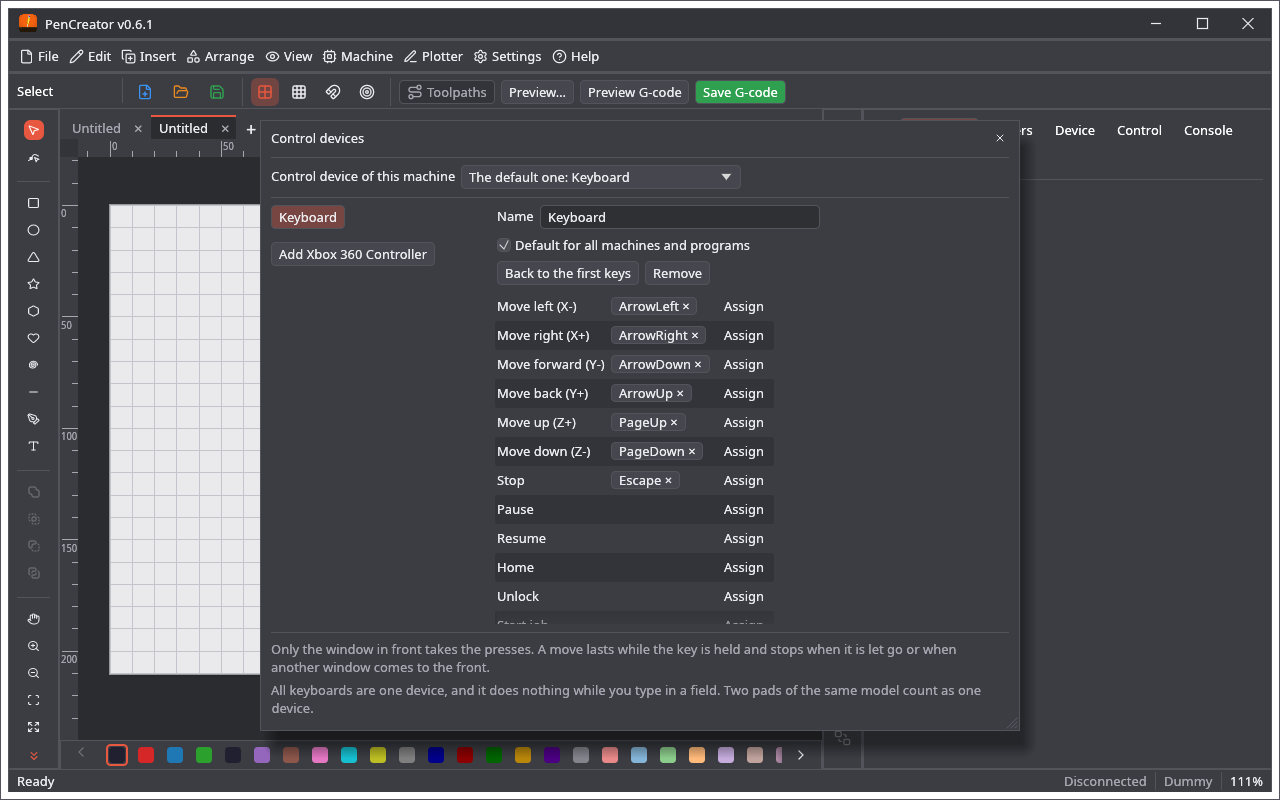
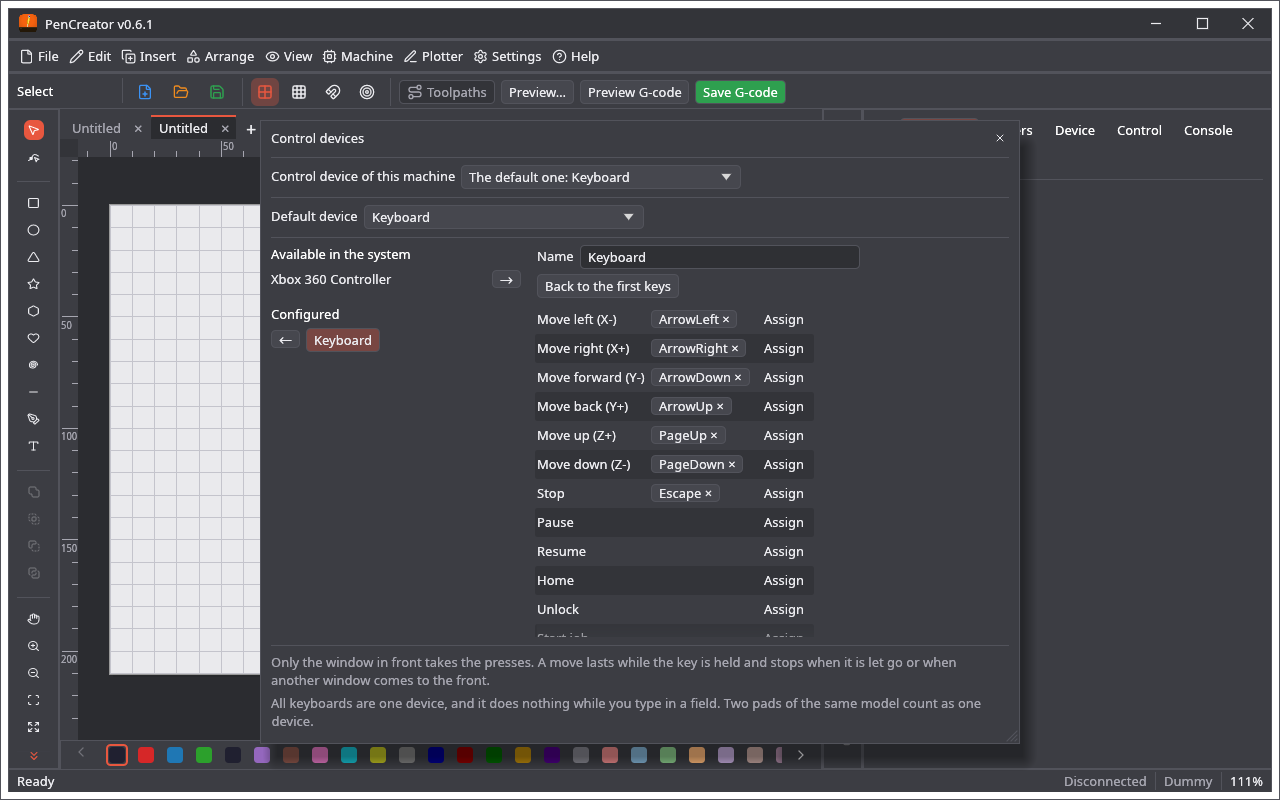
Shared camera page, cameras of the computer in the builds, copyable messages; pin base v1.69.5

Changed region(s): [[0.1875, 0.25, 0.8125, 0.9688], [0.1875, 0.25, 0.3438, 0.4375]]

diff --git a/crates/pencreator/src/device_ui.rs b/crates/pencreator/src/device_ui.rs
@@ -2,7 +2,6 @@
 //! editor and the camera view of the device.
 use crate::device::{self, Device, Lift, Origin, DUMMY_NAME, MAX_DEVICES};
 use crate::App;
-use base_core::camimg::{CameraKind, CameraSource};
 use base_core::machine::{GrblVersion, LinkKind, Streaming};
 use base_core::units::Units;
 use base_ui::editor::EditorHost;
@@ -250,6 +249,10 @@ impl App {
 
     /// The window that adds or changes a device.
     pub(crate) fn device_window(&mut self, ctx: &egui::Context) {
+        if let Some(cam) = self.cam_test_wanted.take() {
+            self.cam_test = base_ui::camera_feed::CamTest::start(cam, ctx);
+        }
+        base_ui::camera_feed::CamTest::window(ctx, &mut self.cam_test);
         let Some(mut edit) = self.dev_edit.take() else { return };
         let mut open = true;
         let mut save = false;
@@ -484,7 +487,7 @@ impl App {
                             ui.end_row();
                         });
                     }
-                    Page::Camera => camera_page(ui, d),
+                    Page::Camera => base_ui::camera_feed::camera_page(ui, &mut d.cameras, &mut d.active_camera, &mut self.cam_test_wanted),
                     Page::Notes => {
                         ui.add(egui::TextEdit::multiline(&mut d.notes).desired_rows(10).desired_width(f32::INFINITY).hint_text(tr("Notes about this machine")));
                     }
@@ -707,70 +710,9 @@ impl App {
     }
 }
 
-fn camera_page(ui: &mut egui::Ui, d: &mut Device) {
-    let mut remove = None;
-    for (i, c) in d.cameras.iter_mut().enumerate() {
-        ui.group(|ui| {
-            ui.horizontal(|ui| {
-                ui.checkbox(&mut c.enabled, "").on_hover_text(tr("Switched on"));
-                ui.add(egui::TextEdit::singleline(&mut c.name).hint_text(tr("Camera name")).desired_width(200.0));
-                if base_ui::window::delete_icon(ui, &tr("Delete this camera")).clicked() {
-                    remove = Some(i);
-                }
-            });
-            ui.horizontal(|ui| {
-                let local = matches!(c.kind, CameraKind::Local(_));
-                let mut want_local = local;
-                ui.radio_value(&mut want_local, false, tr("Address"));
-                ui.radio_value(&mut want_local, true, tr("Camera of this computer"));
-                if want_local != local {
-                    c.kind = if want_local { CameraKind::Local(0) } else { CameraKind::Url(String::new()) };
-                }
-            });
-            match &mut c.kind {
-                CameraKind::Url(u) => {
-                    ui.add(egui::TextEdit::singleline(u).hint_text("http://raspberrypi.local:8080/stream.mjpg").desired_width(340.0));
-                    if !u.trim().is_empty() && !base_core::camimg::valid_url(u) {
-                        ui.label(RichText::new(tr("Not a camera address (http, https, rtsp, udp, rtp or rtmp).")).color(Color32::from_rgb(0xc0, 0x30, 0x30)));
-                    }
-                }
-                CameraKind::Local(n) => {
-                    ui.horizontal(|ui| {
-                        ui.label(tr("Camera number"));
-                        ui.add(egui::DragValue::new(n).range(0..=15));
-                    });
-                }
-            }
-            base_ui::camera_feed::stream_options_ui(ui, c);
-            ui.horizontal(|ui| {
-                ui.label(tr("Camera rotation"));
-                for q in 0..4u8 {
-                    ui.selectable_value(&mut c.rotation, q, format!("{}°", q as u32 * 90));
-                }
-            });
-        });
-    }
-    if let Some(i) = remove {
-        d.cameras.remove(i);
-        d.active_camera = d.active_camera.min(d.cameras.len().saturating_sub(1));
-    }
-    if d.cameras.len() < 8 && ui.button(tr("Add a camera")).clicked() {
-        d.cameras.push(CameraSource::url(&tr("Camera"), "", 0));
-    }
-    if d.cameras.len() > 1 {
-        ui.horizontal(|ui| {
-            ui.label(tr("Shown in the Camera tab"));
-            egui::ComboBox::from_id_salt("dev_active_cam").selected_text(d.cameras.get(d.active_camera).map(|c| c.name.clone()).unwrap_or_default()).show_ui(ui, |ui| {
-                for (i, c) in d.cameras.iter().enumerate() {
-                    ui.selectable_value(&mut d.active_camera, i, &c.name);
-                }
-            });
-        });
-    }
-}
-
 #[cfg(test)]
 mod tests {
+    use base_core::camimg::CameraSource;
     use super::*;
 
     fn app() -> App {

diff --git a/crates/pencreator/src/main.rs b/crates/pencreator/src/main.rs
@@ -305,6 +305,8 @@ struct App {
     machine: MachineLink,
     control_ui: ControlUi,
     control_devices: base_ui::control_devices_ui::ControlDevicesUi,
+    cam_test: Option<base_ui::camera_feed::CamTest>,
+    cam_test_wanted: Option<base_core::camimg::CameraSource>,
     fw_open: bool,
     cal: CalUi,
     diag: DiagUi,
@@ -463,6 +465,8 @@ impl App {
             },
             control_ui: ControlUi::default(),
             control_devices: if cfg!(test) { Default::default() } else { base_ui::control_devices_ui::ControlDevicesUi::from_file() },
+            cam_test: None,
+            cam_test_wanted: None,
             fw_open: false,
             cal: CalUi::default(),
             diag: DiagUi::default(),
@@ -918,7 +922,7 @@ impl App {
 
     fn status_bar(&mut self, ui: &mut egui::Ui) {
         ui.horizontal_centered(|ui| {
-            ui.label(&self.status);
+            base_ui::widgets::message(ui, self.status.as_str());
             ui.with_layout(egui::Layout::right_to_left(egui::Align::Center), |ui| {
                 base_ui::editor::zoom_and_cursor(self, ui);
                 ui.separator();
@@ -1452,7 +1456,9 @@ impl MenuHost for App {
             Act::Quit => self.request_close(ctx),
             Act::Std(s) => {
                 if self.screen == Screen::Editor {
-                    s.run(self)
+                    if !base_ui::menu::goes_to_text_field(ctx, s) {
+                        s.run(self)
+                    }
                 }
             }
             Act::ViewOptions => self.show_options = true,

diff --git a/docs/wiki/Sterowanie-maszyna.md b/docs/wiki/Sterowanie-maszyna.md
@@ -68,3 +68,7 @@ Przy kontrolerze GRBL 1.1 lub nowszym, który je podaje, karta Sterowanie ma **K
 * Pod obrazem widoku kamery: **Zrób zdjęcie** (JPEG), **Nagraj wideo** / **Zatrzymaj nagrywanie** (kopia strumienia `.mp4` albo Motion-JPEG `.avi`, według wyboru **Format wideo**; AVI odtwarzają zwykłe odtwarzacze, z faktyczną liczbą klatek na sekundę) oraz **Poklatkowe**: **Co** N sekund albo **Po każdej warstwie** (zdjęcie, gdy zaczyna się następna warstwa zadania i gdy zadanie się kończy; wymaga zadania wysłanego z programu przyciskiem **Start**), z **Uruchom poklatkowe** / **Zatrzymaj poklatkowe**.
 * **Nazwy plików** zaczynają się od nazwy pliku projektu: `nazwa-photo-0001.jpg`, `nazwa-video-0001.mp4` albo `nazwa-video-0001.avi`; poklatkowe dostaje własny folder (`nazwa-timelapse-0001`) z `nazwa-frame-00001.jpg` albo `nazwa-layer-00001.jpg`. Zanim projekt zostanie zapisany, nazwy nie mają części z projektem (`photo-0001.jpg`). Numery idą dalej od plików, które już są.
 * **Folder**: bez wyboru pliki trafiają do folderu `camera` obok pliku projektu; gdy taki już jest, używany jest pierwszy wolny z `camera00`, `camera01`…, i reszta uruchomienia zostaje w nim. Projekt, który nie ma jeszcze pliku, używa folderu `camera` we wspólnym folderze danych. **Wybierz folder…** ustawia jeden folder na wszystko (jest pamiętany dla wszystkich programów, razem z formatem wideo i ustawieniami poklatkowego). Nagrywanie trwa, gdy widok kamery jest zamknięty lub ukryty.
+
+## macOS: „No route to host”
+
+macOS nie dopuszcza programów do sieci lokalnej, dopóki ich nie zezwolisz, a nowo zbudowany lub zaktualizowany program może wymagać ponownej zgody. Jeśli sterownika albo kamery w sieci nie da się osiągnąć, a komunikat mówi *No route to host*, otwórz **Ustawienia systemowe → Prywatność i ochrona → Sieć lokalna** i włącz program (gdy uruchamiasz go z terminala: terminal). Jeśli jest już włączony, wyłącz go i włącz ponownie, a potem uruchom program od nowa.

diff --git a/docs/wiki/Machine-Control.md b/docs/wiki/Machine-Control.md
@@ -68,3 +68,7 @@ With a GRBL 1.1 or newer controller that reports them, the Control tab has **Ove
 * Under the picture of the camera view: **Take a photo** (a JPEG), **Record video** / **Stop recording** (an `.mp4` copy of the stream or a Motion-JPEG `.avi`, by the **Video format**; the AVI plays in the usual players and has the frame rate it really had) and the **Time-lapse**: **Every** N seconds, or **After each layer** (a picture when the next layer of the job begins and when the job ends; it needs a job sent to the machine from the program with **Start**), with **Start time-lapse** / **Stop time-lapse**.
 * **The names of the files** begin with the name of the project file: `name-photo-0001.jpg`, `name-video-0001.mp4` or `name-video-0001.avi`; a time-lapse gets a folder of its own (`name-timelapse-0001`) with `name-frame-00001.jpg` or `name-layer-00001.jpg`. Before the project is saved the names have no project part (`photo-0001.jpg`). The numbers go on from the files that are there.
 * **Folder**: without a choice the files go to a folder `camera` next to the project file; when there is one already, the first free of `camera00`, `camera01`… is used, and the rest of the run stays in it. A project that has no file yet uses the folder `camera` of the shared data folder. **Choose the folder…** sets one folder for everything (it is kept for all the programs, with the video format and the time-lapse settings). A recording goes on while the camera view is closed or hidden.
+
+## macOS: "No route to host"
+
+macOS keeps programs off the local network until they are allowed, and a newly built or updated program may have to be allowed again. If a controller or camera on your network cannot be reached and the message says *No route to host*, open **System Settings → Privacy & Security → Local Network** and switch the program on (when you start it from a terminal: the terminal). If it is on already, switch it off and on, then start the program again.

diff --git a/docs/wiki/Urzadzenia-sterujace.md b/docs/wiki/Urzadzenia-sterujace.md
@@ -6,9 +6,11 @@ Maszyną można sterować padem USB albo klawiaturą. **Maszyna → Urządzenia 
 
 ## Urządzenia
 
-* **Dodaj klawiaturę** dodaje klawiaturę. Wszystkie klawiatury komputera to jedno urządzenie, bo system nie mówi oknu, która została naciśnięta.
-* **Dodaj** z nazwą pada dodaje podłączony pad. Każdy model pada to urządzenie z własnymi klawiszami; dwa pady tego samego modelu liczą się jako jedno.
-* **Domyślne dla wszystkich maszyn i programów** sprawia, że tego urządzenia używa każda maszyna bez własnego. Pierwsze dodane urządzenie staje się domyślne.
+Okno ma dwie listy. **Dostępne w systemie** pokazuje klawiaturę i podłączone pady, które nie są jeszcze ustawione, a **Skonfigurowane** te, które są. Strzałka przenosi urządzenie z jednej listy na drugą. Urządzenie przeniesione z powrotem zachowuje klawisze na wypadek ponownego dodania.
+
+* Wszystkie klawiatury komputera to jedno urządzenie, bo system nie mówi oknu, która została naciśnięta.
+* Każdy model pada to urządzenie z własnymi klawiszami; dwa pady tego samego modelu liczą się jako jedno.
+* **Domyślne urządzenie** wybiera to, którego używają wszystkie maszyny i programy, o ile maszyna nie ma własnego, albo **Brak domyślnego urządzenia**. Pierwsze skonfigurowane urządzenie staje się domyślne.
 
 Urządzenia i wybór domyślnego są wspólne dla LightCreatora, MillCreatora i PenCreatora. Zmiana w jednym programie dociera do pozostałych w ciągu sekundy.
 

diff --git a/VERSIONS.md b/VERSIONS.md
@@ -7,6 +7,11 @@ Each release gets the next version number. Newest first.
 * **USB keyboards and pads:** **Machine → Control devices** connects a keyboard and any number of pads, each with its own keys for the moves, Stop, Pause, Home and the pen up and down. A machine can have its own device; otherwise it uses the default one. The devices are common to LightCreator, MillCreator and PenCreator and are kept in the backup. Only the window in front takes the presses, and a move lasts while the key is held.
 * **New colour schemes:** Superman, Batman, and Joker in a dark and a light version.
 * No more compiler warnings when building.
+* **Cameras:** the camera of the computer now works in the released programs (it was left out of the builds, so it said this version cannot use it); macOS asks for the permission.
+* **The page of the cameras** is the same as in LightCreator: the test of a camera, the picture settings and the lens correction are new.
+* **Messages can be copied:** select the text of a message or the status line with the mouse, or use **Copy** on the right button.
+* **macOS:** when the system blocks a controller or a camera on the local network, the message says where to allow the program (*Privacy & Security → Local Network*).
+* **Edit → Copy and Paste** of the menu work in a text field; they copied and pasted shapes of the drawing.
 
 ## v0.6.0
 
